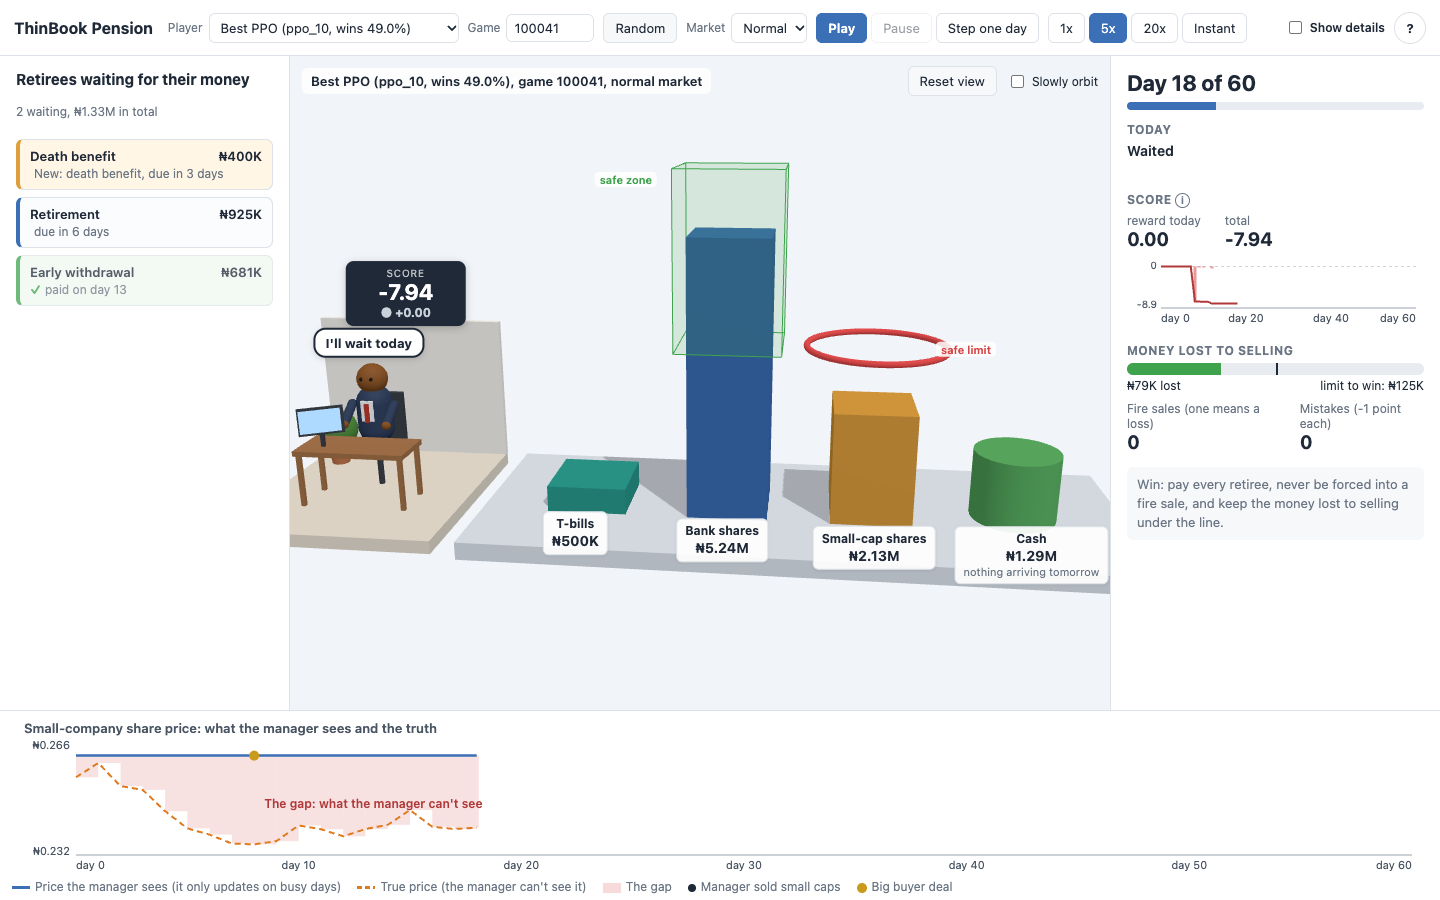
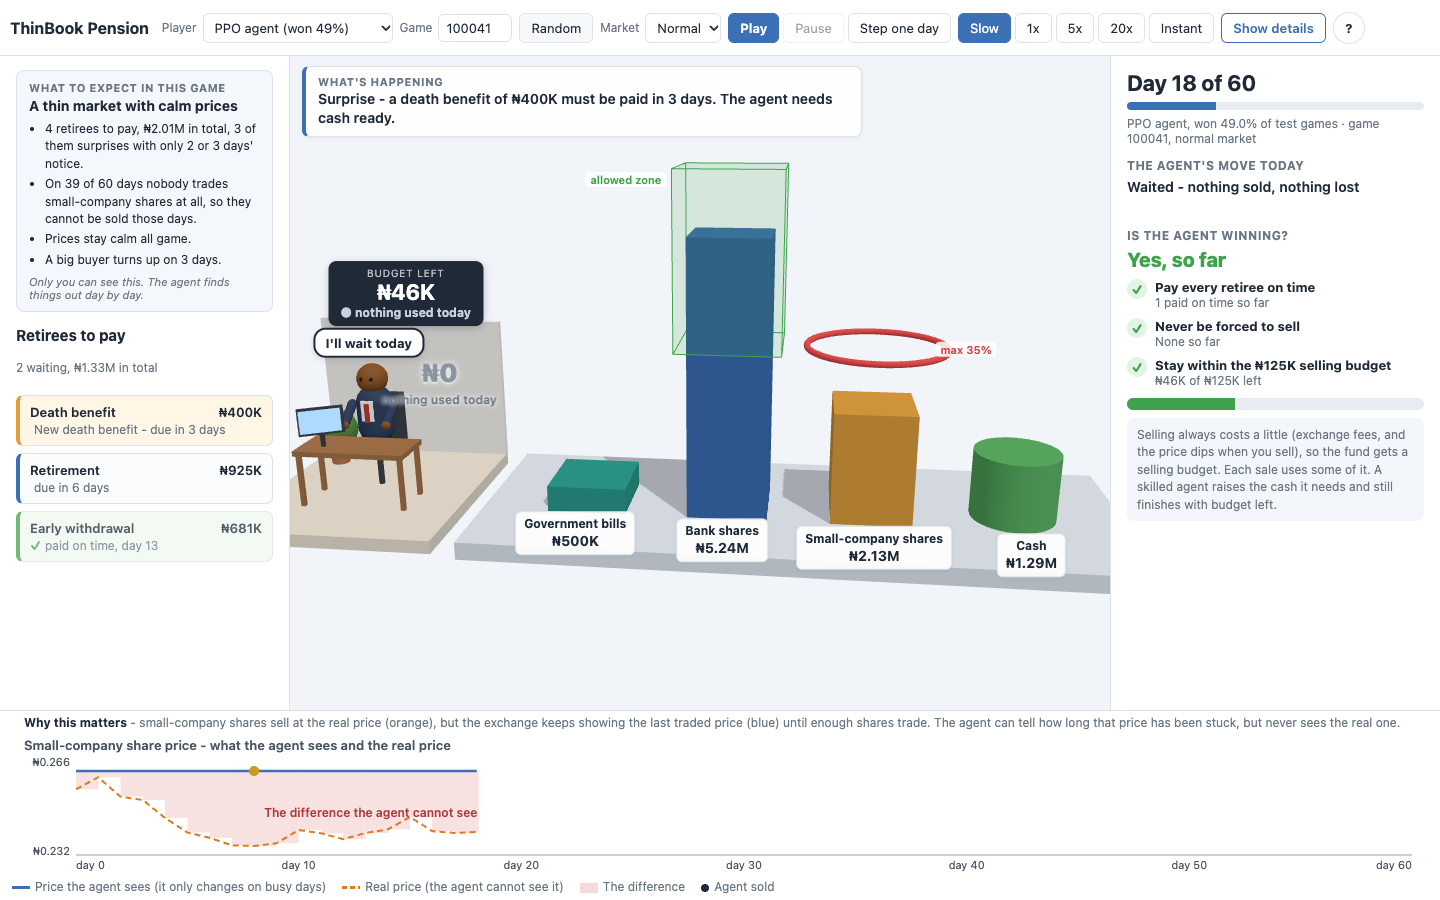
docs: describe the simplified game screen and refresh the screenshots

diff --git a/README.md b/README.md
@@ -52,22 +52,24 @@ uv run play.py --player block_dealer --seed 100042 --market hard --speed 20
 uv run play.py --no-browser --port 8001
 ```
 
-This starts a local server, loads the best trained agent, opens the browser and plays a game at 5x speed. The terminal prints which model was loaded, the address, one line per trading day and a summary at the end. Stop the server with Ctrl+C. Flags (the same for `uv run main.py`): `--player` (ppo, dqn, a2c, reinforce, block_dealer, perfect_foresight, random), `--seed` (the same seed always draws the same game), `--market` (normal or hard), `--speed` (1, 5, 20 or instant), `--no-browser`, `--port`.
+This starts a local server, loads the best trained agent, opens the browser and plays a game slowly, 2.5 seconds a day. The terminal prints which model was loaded, the address, one line per trading day and a summary at the end. Stop the server with Ctrl+C. Flags (the same for `uv run main.py`): `--player` (ppo, dqn, a2c, reinforce, block_dealer, perfect_foresight, random), `--seed` (the same seed always draws the same game), `--market` (normal or hard), `--speed` (slow, 1, 5, 20 or instant; slow, 2.5 seconds a day, is the default), `--no-browser`, `--port`.
 
 ![ThinBook Pension mid-game](assets/env_screenshot.png)
 
-The screen starts in a simple view with plain words for anyone. "Show details" in the top bar (or `?detailed=1` in the address) switches to the detailed view with the finance terms and exact numbers: shares of the fund, basis points, the investment limit figures, what the agent can observe of the market and the hidden state (`assets/env_screenshot_detailed.png`). The browser remembers the choice.
+The screen starts in a simple view with plain words for anyone ("government bills", "small-company shares", "forced sale") and only the essentials. The "Show details" button in the top bar (or `?detailed=1` in the address) adds the finance terms and exact numbers: shares of the fund, the money lost as a percentage of the fund, the points chart, the investment limit figures, what the agent can observe of the market and the hidden state behind a tick box (the right panel scrolls) (`assets/env_screenshot_detailed.png`). The browser remembers the choice.
 
 What the screen shows:
 
-- Centre left, the agent's office: the agent is a fund manager at a desk. Every day it turns to the tower it sells and points (or stays put when it waits), says what it is doing in a speech bubble, and that day's reward floats up beside it (red when it costs points, grey when nothing happened, green for the win bonus). The scoreboard on the office wall shows the running score and the change today, so the reward visibly rises and falls. At the end the manager celebrates or slumps.
-- Centre, the fund vault (three.js): T-bills, bank shares and small-cap shares as towers, with their value and share of the fund; cash as a pile, with cash arriving tomorrow shown faded on top. The red ring is the 35% small-cap limit and the green band the 35% to 70% bank range; when a limit is broken, a countdown shows how many days are left to fix it. A briefcase appears on days a big buyer is offering, and a tower flashes red with "FORCED SALE" when the fund is forced to fire-sell. Drag to rotate, scroll to zoom, "Reset view" to go back.
-- Left, retirees waiting for their money: one card per known payout with its countdown; sudden ones are highlighted when they appear; paid cards turn green, or red if a fire sale paid them.
-- Right, score and status: the day, today's action in plain words (invalid actions are flagged), the reward today and the total score with a chart (a bar for each day's reward, a line for the running total), the money lost to selling against the amount allowed for a win, fire sales and mistakes. The detailed view shows the same in basis points and adds what the agent can see of the market; "Show hidden state" there reveals what the agent cannot see.
-- Bottom, the stale-price chart: the small-cap board price (what the agent sees, flat until a day with 100,000+ shares traded) against the real price (hidden from the agent), with the gap shaded; dots mark the agent's small-cap sales and big-buyer deals.
+- Top of the scene, what's happening: one plain sentence each day, for example "The agent sold ₦12K of small-company shares to raise cash. No retiree is waiting right now.", or a forced sale and why, a wasted move, a surprise payout, or a broken rule with the days left to fix it.
+- Centre left, the agent's office: the agent is a fund manager at a desk. Every day it turns to the tower it sells and points (or stays put when it waits), says what it is doing in a speech bubble, and that day's reward floats up beside it. The scoreboard on the office wall shows the selling budget left and what today used (the running points in the detailed view). At the end the manager celebrates or slumps.
+- Centre, the fund vault (three.js): government bills, bank shares and small-company shares as towers with their value; cash as a pile, with cash coming tomorrow shown faded on top. The red ring is the 35% small-company limit ("max 35%") and the green box the 35% to 70% bank range ("allowed zone"); when a limit is broken, a countdown shows how many days are left to fix it. A briefcase appears on days a big buyer is around, and a tower flashes red with "FORCED SALE" when the fund is forced to sell. Drag to rotate, scroll to zoom.
+- Top left, what to expect in this game: the server counts it from the market and payouts the game drew at the start (how many retirees and how many are short-notice surprises, the days nobody trades small-company shares so they cannot be sold, stormy days, and big-buyer days) and sums it up in a line such as "A thin market with calm prices". It is for the viewer only; the agent finds things out day by day.
+- Left, retirees to pay: one card per known payout with its countdown; sudden ones are highlighted when they appear; paid cards turn green, or red if a forced sale paid them.
+- Right, the day, the agent's move today in plain words, and "Is the agent winning?": a plain verdict (yes so far, at risk, no) and the three things it needs to win, each ticked or crossed: pay every retiree on time, never be forced to sell, stay within the ₦125K selling budget (with a bar for the budget left). Selling always costs a little (fees, and the price dips when you sell), so the fund gets a selling budget equal to the win line (1.25% of the fund) and each sale uses some of it; budget left above zero is exactly the game's own cost rule. The office scoreboard shows the budget left and what today used, and the end screen shows the budget left. The raw points (which count money lost, so they end below zero even in most wins) are in the detailed view. The detailed view adds the points and their chart, forced sales and invalid actions, what the agent can see of the market, and a box that reveals what it cannot see.
+- Bottom, the stale-price chart, with one line on why it matters (small-company shares sell at the real price, but the exchange keeps showing the last traded price until enough shares trade): the small-company price the agent sees (flat until a day with 100,000+ shares traded) against the real price (hidden from the agent), with the difference shaded; dots mark the agent's sales.
 - End: a WON or LOST banner with the reason in plain words and a summary, with "Play again (same game)" and "New game".
 
-Controls (top bar): player, game number with "Random game", market, Play, Pause, Step one day, speed (1x, 5x, 20x, Instant) and "?" for a plain-words guide to the game. The trained agents are picked by `environment/model_registry.py` from the sweep (best held-out win rate per algorithm); until the sweep has a PPO run, PPO uses `models/pg/pension5_seed0_best.pt`, and algorithms with no finished run show "not trained yet". The page also takes options in its address: `?player=ppo&seed=100008&replay=1&pause_at=30` replays a game through `POST /episode` and stops on day 30 (that is how the screenshot above was taken).
+Controls (top bar): player, game number with "Random game", market, Play, Pause, Step one day, speed (Slow at 2.5 seconds a day, 1x, 5x, 20x, Instant), "Show details" and "?" for a plain-words guide to the game. Changing the player, game number or market (or pressing Random) starts that game straight away. The player menu uses plain names ("PPO agent (won 49%)", the share of test games it won). The trained agents are picked by `environment/model_registry.py` from the sweep (best held-out win rate per algorithm); until the sweep has a PPO run, PPO uses `models/pg/pension5_seed0_best.pt`, and algorithms with no finished run show "not trained yet". The page also takes options in its address: `?player=ppo&seed=100008&replay=1&pause_at=30` replays a game through `POST /episode` and stops on day 30 (that is how the screenshot above was taken).
 
 ## API
 
